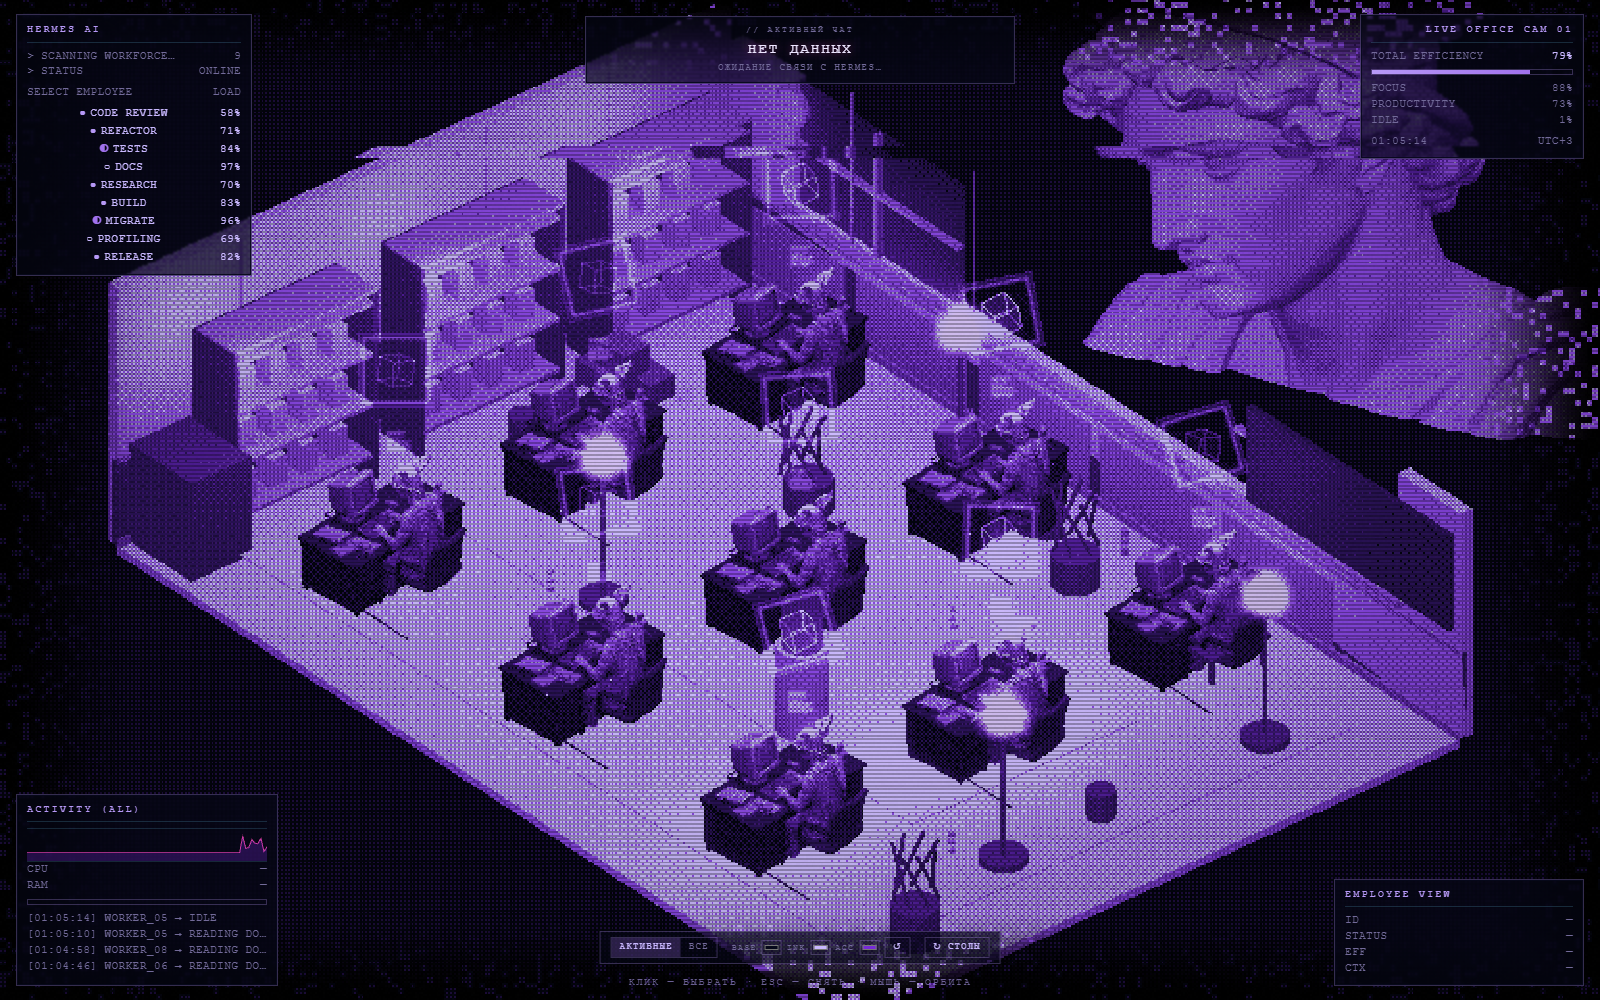
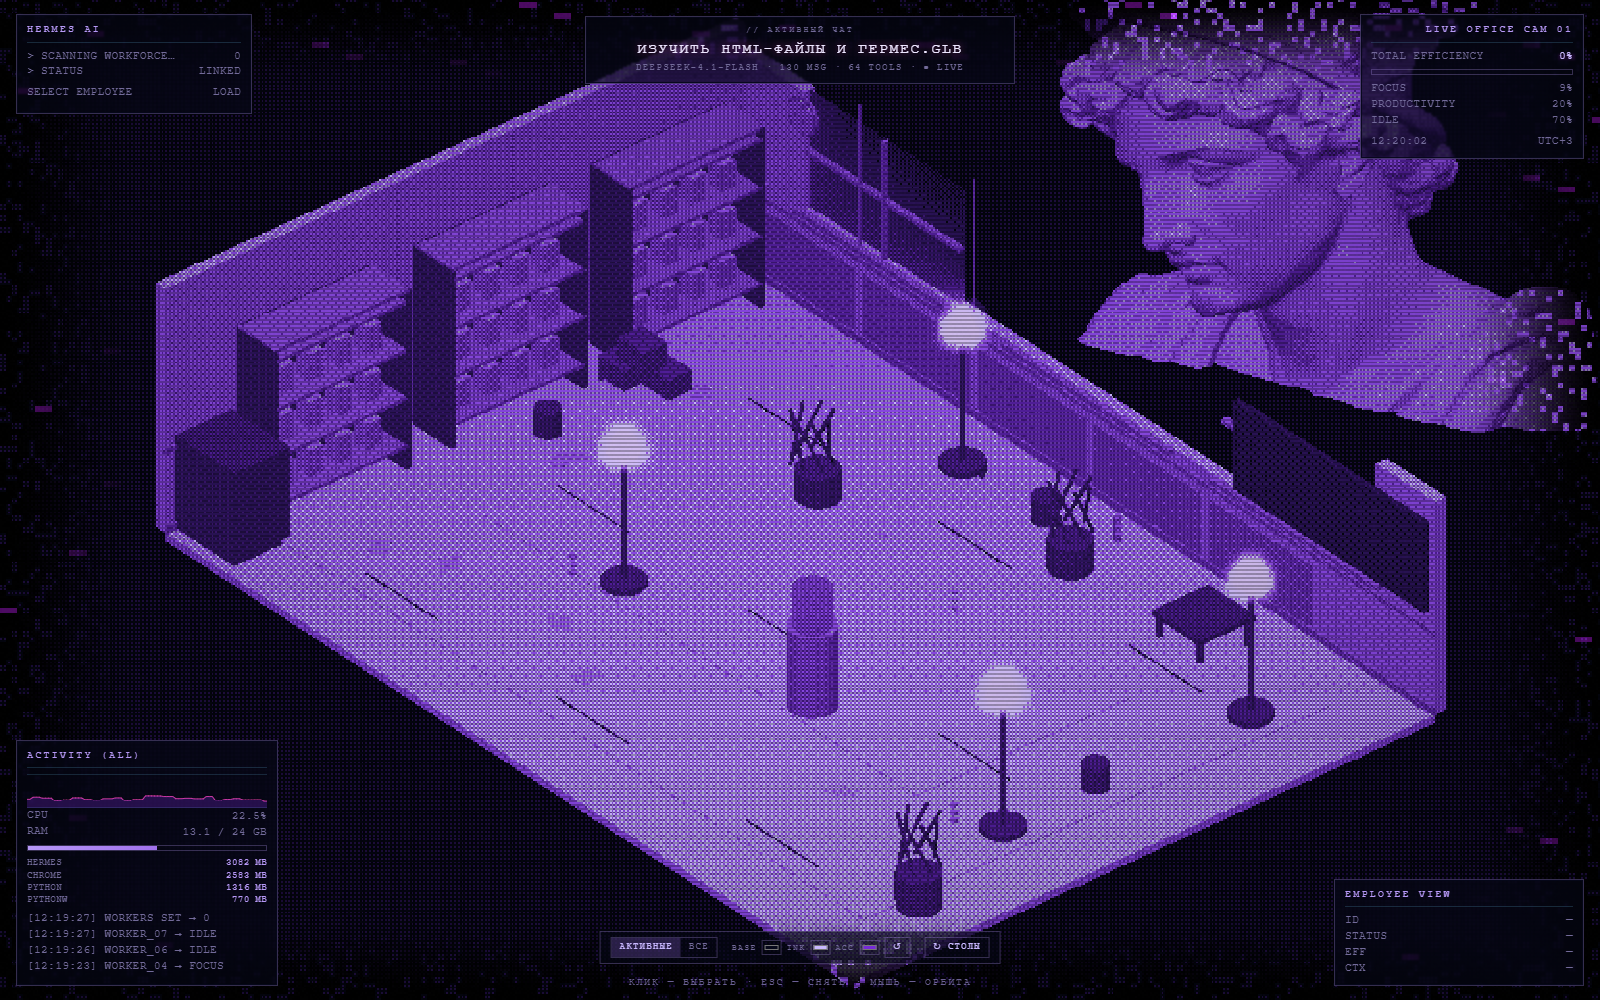
docs: реальный URL репозитория + скриншот живой сцены в docs/

diff --git a/README.md b/README.md
@@ -26,7 +26,7 @@ Hermes desktop                        ваш компьютер
 ## Установка (Windows, один шаг)
 
 ```powershell
-git clone https://github.com/<ваш-логин>/hermes-office.git
+git clone https://github.com/BIXXEZ/Hermes-subagents-HUB-3D-View-Waporvawe
 cd hermes-office
 powershell -ExecutionPolicy Bypass -File scripts\install.ps1
 ```
